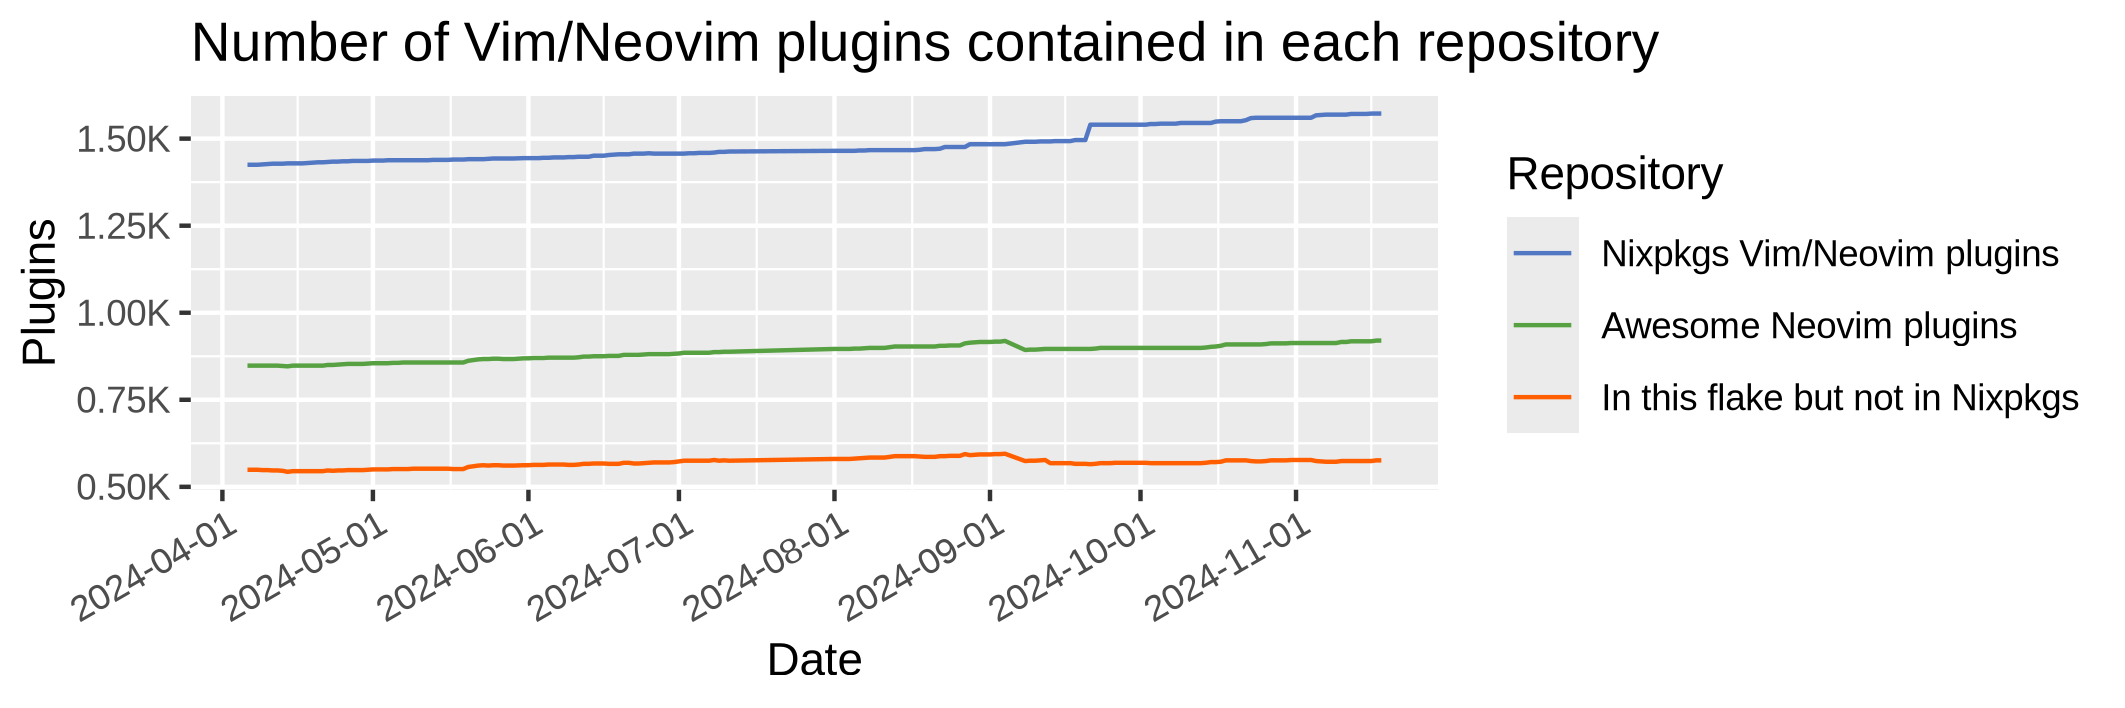
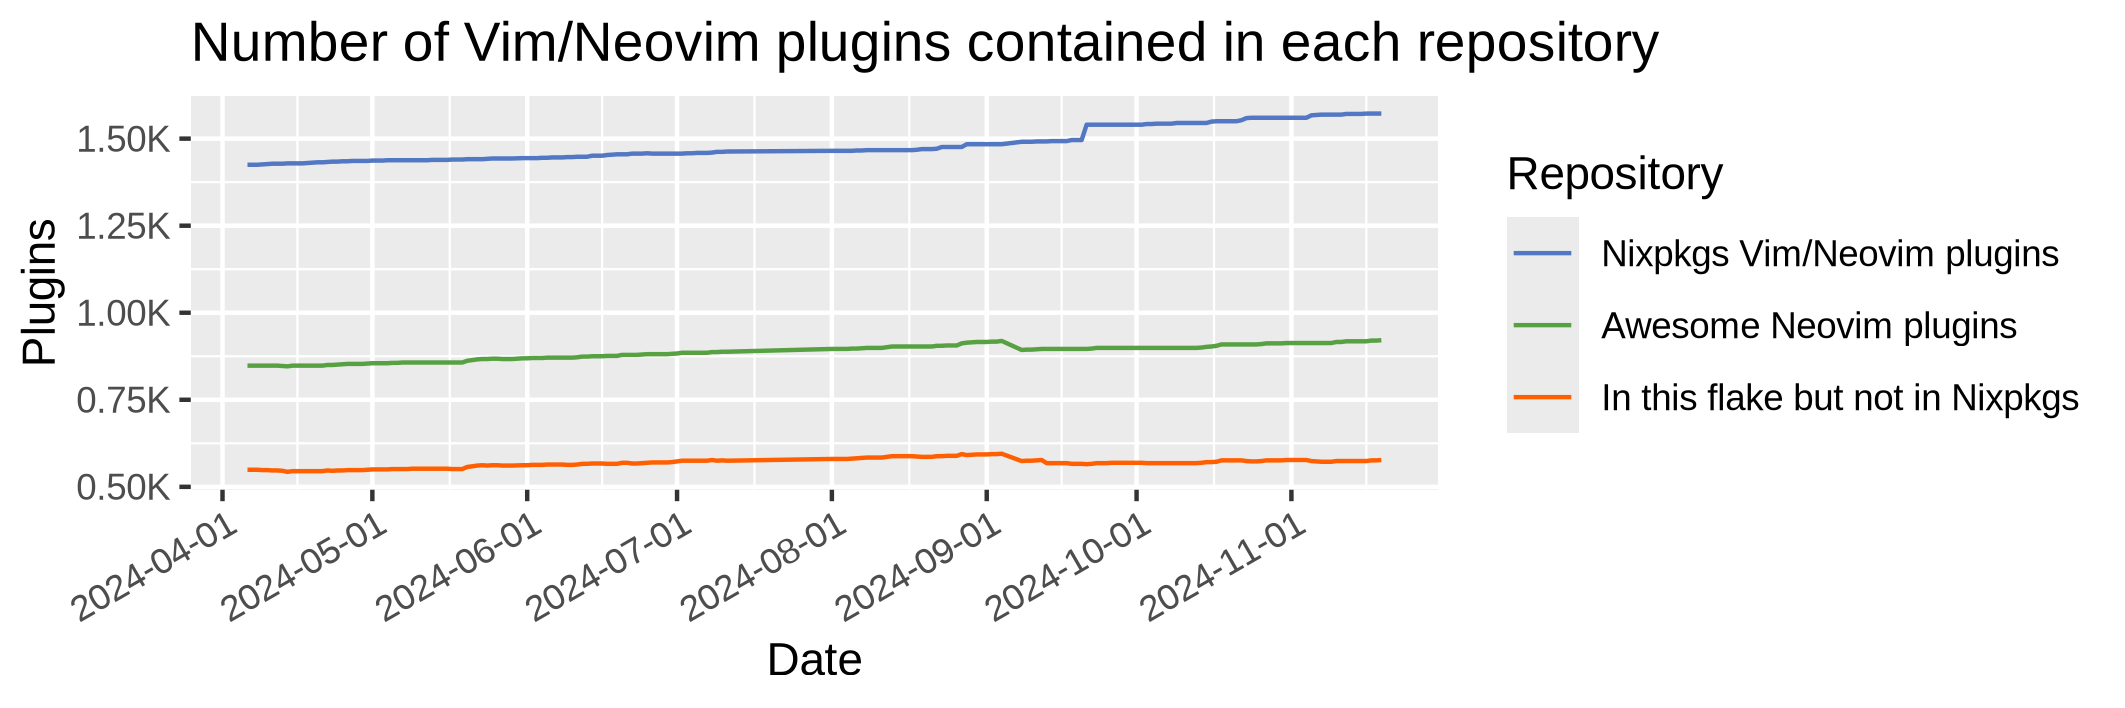
auto: update vim plugins

diff --git a/README.md b/README.md
@@ -8,7 +8,7 @@ Nix flake of Awesome Neovim plugins.
 
 [b1]: https://img.shields.io/github/actions/workflow/status/m15a/flake-awesome-neovim-plugins/check.yml?style=flat-square&logo=github&label=CI
 [b2]: https://github.com/m15a/flake-awesome-neovim-plugins/actions/workflows/check.yml
-[b3]: https://img.shields.io/badge/Awesome_Neovim_plugins-920-57A143?style=flat-square
+[b3]: https://img.shields.io/badge/Awesome_Neovim_plugins-921-57A143?style=flat-square
 [b4]: https://img.shields.io/endpoint?url=https://flakehub.com/f/m15a/flake-awesome-neovim-plugins/badge&style=flat-square
 [b5]: https://flakehub.com/flake/m15a/flake-awesome-neovim-plugins
 
